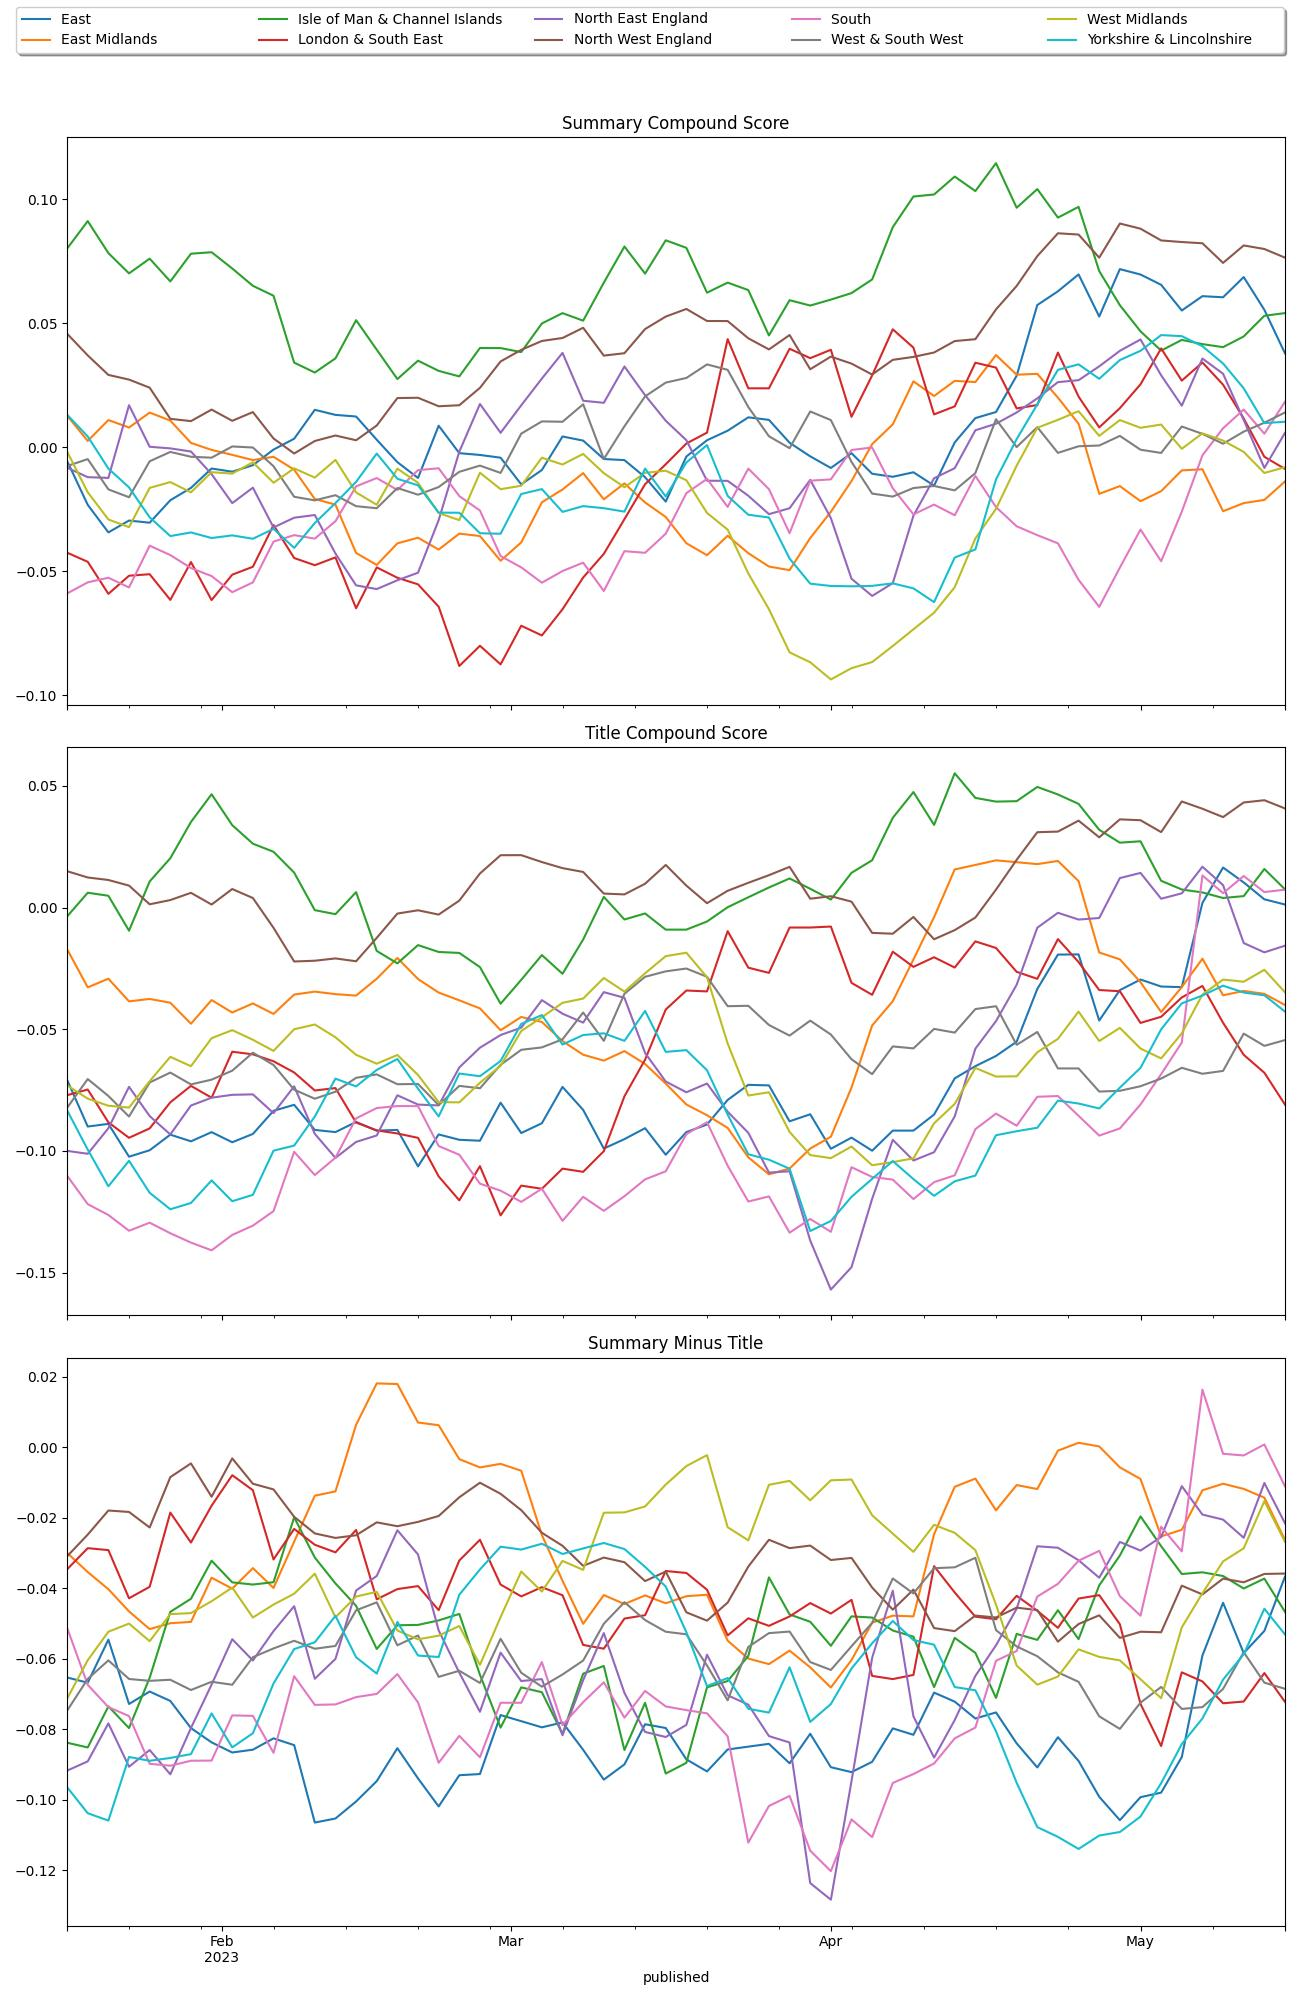
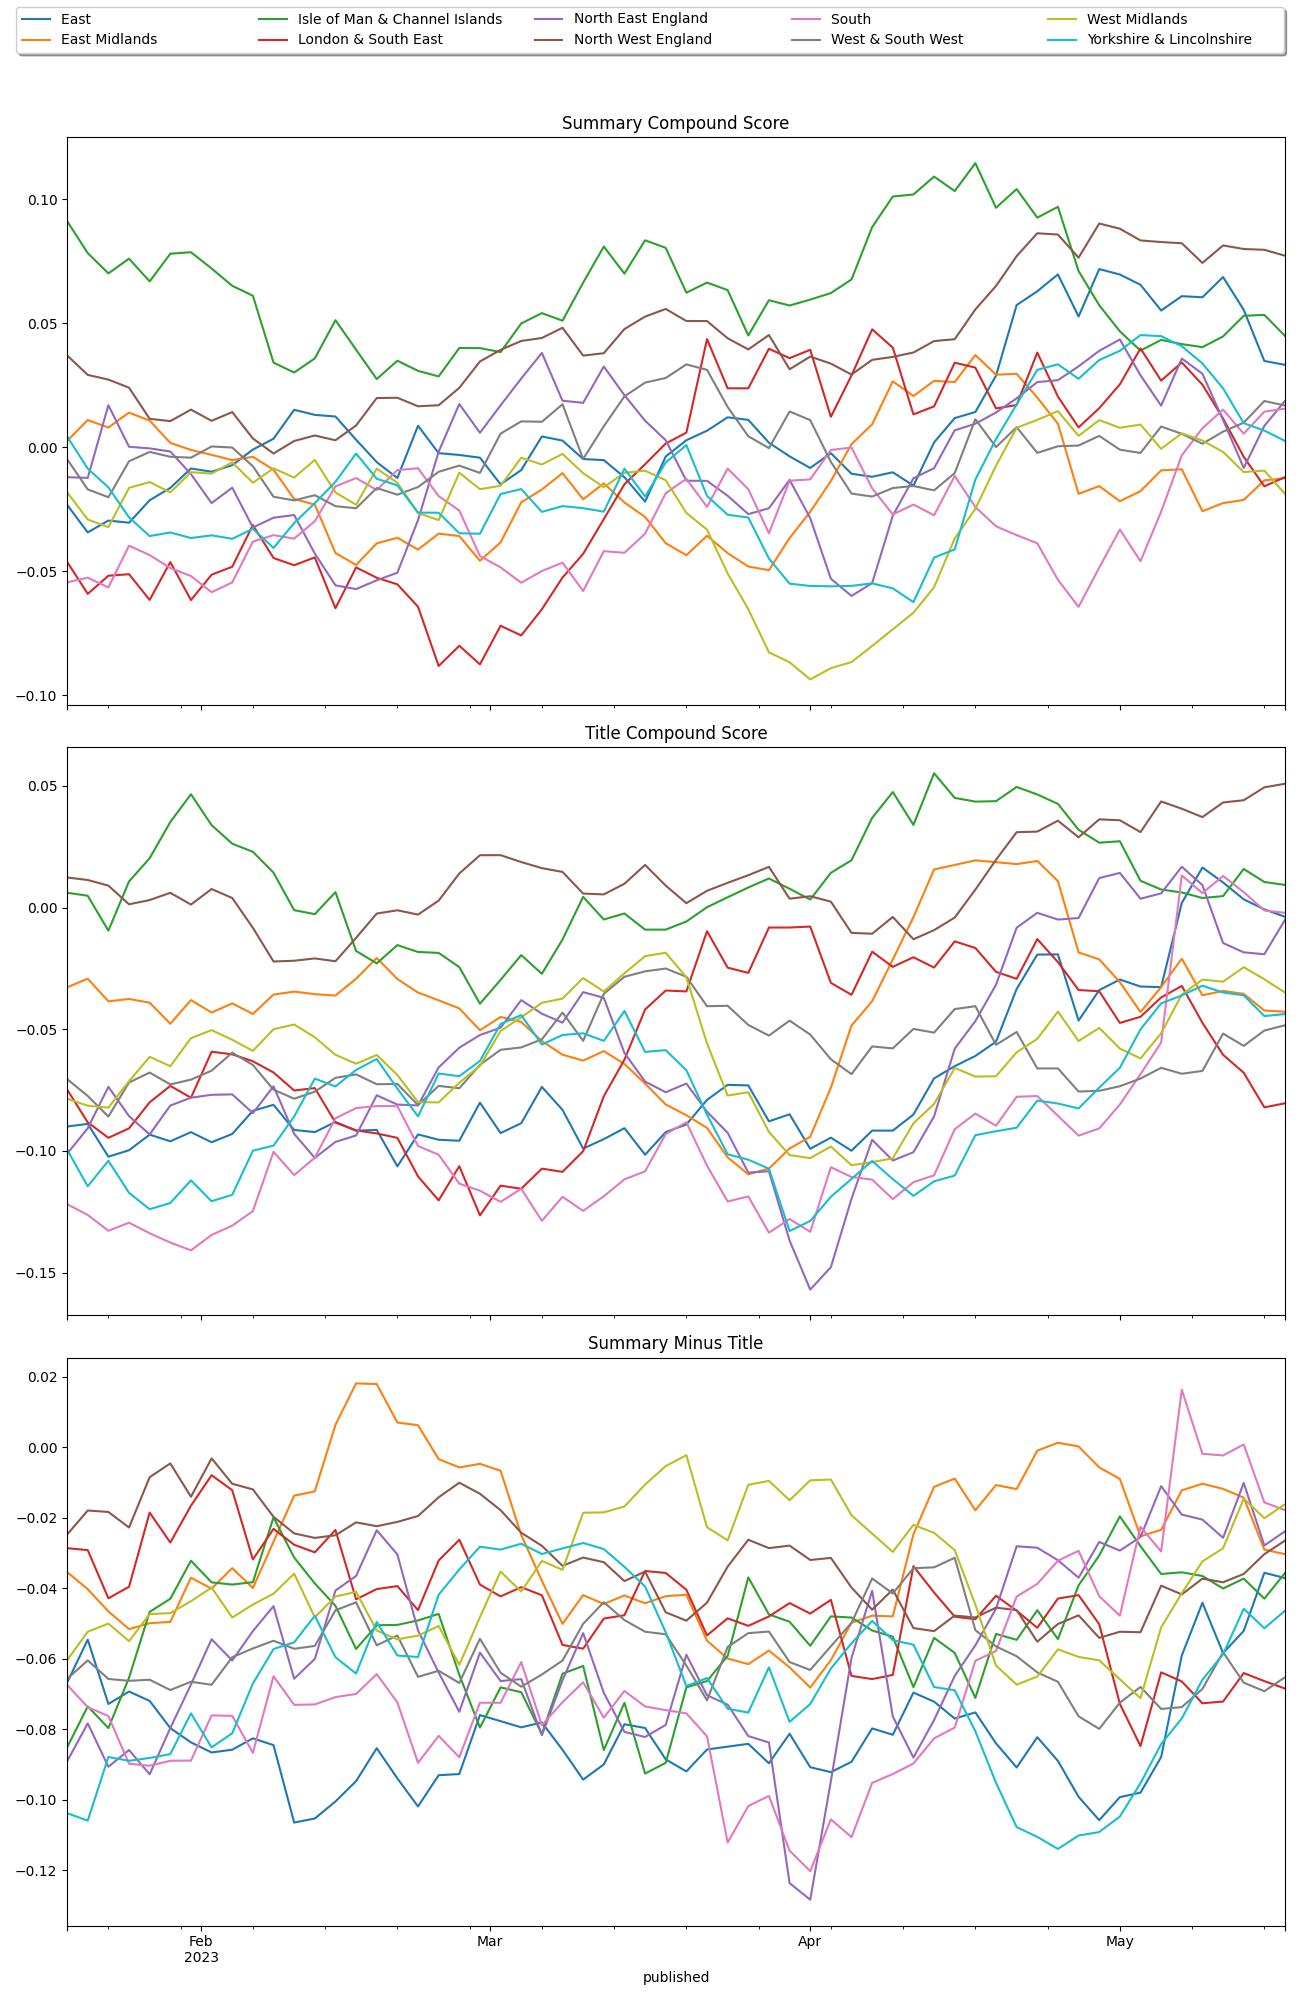
at 2023-05-18 10:51 ran: [Stage: 'complete-basic_report']

diff --git a/reports/complete/latest.md b/reports/complete/latest.md
@@ -1,12 +1,12 @@
-| region                        | published                  | summary                                                                                                                         | title                                                   | url                                           |   summary_compound_score |   title_compound_score |   summary_minus_title |
-|:------------------------------|:---------------------------|:--------------------------------------------------------------------------------------------------------------------------------|:--------------------------------------------------------|:----------------------------------------------|-------------------------:|-----------------------:|----------------------:|
-| East                          | 2023-05-16 09:11:31        | The gas leak on the Norfolk coast was reported late on Monday afternoon.                                                        | Roads reopened after leak at major UK gas terminal      | /news/uk-england-norfolk-65608988             |                  -0.34   |                -0.34   |                0      |
-| East Midlands                 | 2023-05-16 09:00:29        | "Widespread failings" are found in provision for children with special educational needs.                                       | County's SEND services are failing, inspectors say      | /news/uk-england-nottinghamshire-65605442     |                  -0.128  |                -0.5106 |               -0.3826 |
-| Isle of Man & Channel Islands | 2023-05-16 07:17:00        | The outage in November was caused by the failure of air conditioning systems in the server room.                                | States IT outage sparks call for extra investment       | /news/world-europe-guernsey-65608039          |                  -0.5106 |                 0      |                0.5106 |
-| London & South East           | 2023-05-16 08:58:25        | Who has already secured Champions League football for 2023-24 and why could there be eight English teams in Europe next season? | Which Premier League teams can qualify for Europe?      | /sport/football/65443681                      |                   0.7269 |                 0      |               -0.7269 |
-| North East England            | 2023-05-16 07:53:01        | The bakery chain said hot food like chicken goujons, wedges and pizza were particularly popular.                                | Greggs sales up nearly a fifth in past year             | /news/uk-england-tyne-65607899                |                   0.6801 |                 0      |               -0.6801 |
-| North West England            | 2023-05-16 09:15:04        | The travel firm will operate 54 weekly flights to destinations including Spain, Greece and Bulgaria.                            | Jet2 to fly from Liverpool for first time               | /news/uk-england-merseyside-65601481          |                   0      |                 0      |                0      |
-| South                         | 2023-05-16 06:56:42        | The new recruits expand the Dorset force to 1,441 police officers.                                                              | Force hires over 170 officers to meet target            | /news/uk-england-dorset-65607117              |                   0.3182 |                 0      |               -0.3182 |
-| West & South West             | 2023-05-16 08:57:26.077000 | A man in his 40s was airlifted to Derriford Hospital from the A361 at Rackenford, Tiverton.                                     | Motorcyclist suffers life-threatening injuries in crash | /news/articles/c5107wp2ze9o                   |                   0      |                -0.7003 |               -0.7003 |
-| West Midlands                 | 2023-05-16 07:46:30        | Tina Cross says the view has gone from a field with cows to a "wooden and brick jungle".                                        | Privacy invaded 'after new homes built too high'        | /news/uk-england-stoke-staffordshire-65600426 |                   0      |                 0      |                0      |
-| Yorkshire & Lincolnshire      | 2023-05-16 08:52:56.301000 |                                                                                                                                 | 'I think Leeds are down'                                | /sport/articles/c0jp9dq3vg8o                  |                   0      |                 0      |                0      |
+| region                        | published                  | summary                                                                                                      | title                                                | url                                            |   summary_compound_score |   title_compound_score |   summary_minus_title |
+|:------------------------------|:---------------------------|:-------------------------------------------------------------------------------------------------------------|:-----------------------------------------------------|:-----------------------------------------------|-------------------------:|-----------------------:|----------------------:|
+| East                          | 2023-05-18 08:08:16        | The Green Party is the largest party on East Hertfordshire Council after the local elections.                | Green Party leader elected after end of Tory control | /news/uk-england-beds-bucks-herts-65628252     |                   0.6597 |                 0.4019 |               -0.2578 |
+| East Midlands                 | 2023-05-18 07:38:24.949000 | The former Boot and Shoe Operatives Union building in Leicester has stood empty for several years.           | Shisha bar plan for former union HQ                  | /news/articles/ce5zpgr805zo                    |                  -0.2023 |                 0      |                0.2023 |
+| Isle of Man & Channel Islands | 2023-05-18 07:23:58.518000 | The Royal Mail and Jersey Post is exploring alternatives to the dedicated flight.                            | Jersey mail plane could be replaced by ferry         | /news/articles/c51pwng578vo                    |                   0.4588 |                 0      |               -0.4588 |
+| London & South East           | 2023-05-18 08:51:12.182000 |                                                                                                              | 'Brighton are not just a springboard or feeder team' | /sport/articles/cyd812pr01vo                   |                   0      |                 0      |                0      |
+| North East England            | 2023-05-18 05:20:00        | Lee Kyle will return to Edinburgh with his tent this summer to avoid soaring accommodation costs.            | Comic will carry on camping at Edinburgh Festival    | /news/uk-scotland-edinburgh-east-fife-65620961 |                  -0.296  |                 0.4939 |                0.7899 |
+| North West England            | 2023-05-18 09:09:10        | Blackburn Rovers defender Daniel Ayala has announced he will leave the Championship club at the end of June. | Ayala to leave Blackburn next month                  | /sport/football/65632946                       |                   0.4767 |                -0.0516 |               -0.5283 |
+| South                         | 2023-05-18 09:26:02        | Derbyshire sign Hampshire wicketkeeper-batter Aneurin Donald on a short-term loan.                           | Donald joins Derbyshire on short-term loan           | /sport/cricket/65633376                        |                   0      |                 0      |                0      |
+| West & South West             | 2023-05-18 08:40:10        | Grace Teeling says the drugs have allowed her to "work, travel and socialise" despite her diagnosis.         | Life-extending womb cancer drugs approved            | /news/uk-england-bristol-65631392              |                   0.4215 |                -0.3818 |               -0.8033 |
+| West Midlands                 | 2023-05-18 08:52:05.780000 | The base, due to open in March, is set to create 100 new jobs and eventually lead to new routes.             | EasyJet announces new base at Birmingham Airport     | /news/articles/cd17pj77567o                    |                   0.2732 |                 0      |               -0.2732 |
+| Yorkshire & Lincolnshire      | 2023-05-18 08:48:43.424000 | The band are due to begin their reunion tour in Bridlington on 26 May.                                       | Pulp praise 'amazing' postbox topper                 | /news/articles/cd1rplj8z0go                    |                   0      |                 0.5574 |                0.5574 |
